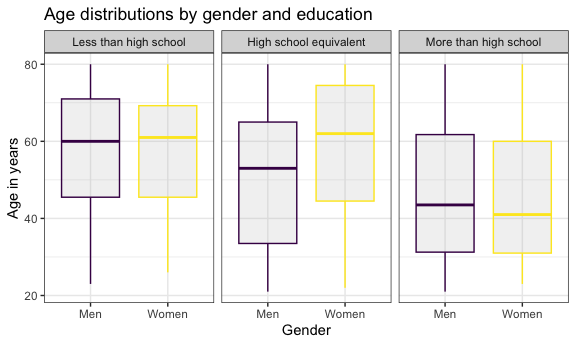
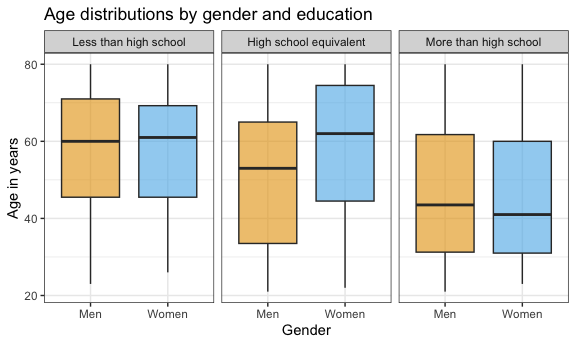
I calculated total activity by participant and plotted it by age, gender, and education.

Changed region(s): [[0.4062, 0.2029, 0.6562, 0.8116], [0.7188, 0.3768, 0.9688, 0.7536], [0.0938, 0.2029, 0.3438, 0.7826]]

diff --git a/hw3_ak4598.md b/hw3_ak4598.md
@@ -253,6 +253,8 @@ This line graph (or spaghetti plot) uses the `brfss_excellent` dataset
 to display the average data value over time by state.
 
 ``` r
+scale_colour_discrete = scale_colour_viridis_d
+
 ggplot(brfss_excellent, aes(x = year, y = data_value_avg, color = locationabbr)) + 
   geom_line() + 
   labs(
@@ -263,7 +265,7 @@ ggplot(brfss_excellent, aes(x = year, y = data_value_avg, color = locationabbr))
   theme(legend.position = "none")
 ```
 
-<img src="hw3_ak4598_files/figure-gfm/plot_spaghetti, -1.png" width="90%" />
+<img src="hw3_ak4598_files/figure-gfm/plot_spaghetti-1.png" width="90%" />
 
 ## Problem 2.3
 
@@ -283,7 +285,7 @@ response ratings, from “poor” to “excellent,” for the years 2006 and
 
 ``` r
 ggplot(brfss_ny, aes(x = response, y = data_value)) + 
-  geom_boxplot() + 
+  geom_boxplot(fill = "#56B4E9", alpha = 0.6) + 
   facet_grid(~year) + 
   labs(title = "Distributions by Overall Health Response Ratings, 2006 and 2010",
        x = "Rating",
@@ -368,8 +370,9 @@ high school equivalent category, there are more men than women.
 ### These boxplots show the age distributions for men and women in each education category.
 
 ``` r
-ggplot(covar, aes(x = sex, y = age, color = sex)) + 
-  geom_boxplot(fill = "grey", alpha = 0.2) + 
+ggplot(covar, aes(x = sex, y = age, fill = sex)) + 
+  geom_boxplot(alpha = 0.6)  + 
+  scale_fill_manual(values=c("#E69F00", "#56B4E9")) + 
   facet_grid(~education) + 
   theme(legend.position = "none") + 
   labs(
@@ -391,11 +394,41 @@ compared to a median of about 53 years old.
 
 ## Problem 3.3
 
-Using your tidied dataset, aggregate across minutes to create a total
-activity variable for each participant. Plot these total activities
-(y-axis) against age (x-axis); your plot should compare men to women and
-have separate panels for each education level. Include a trend line or a
-smooth to illustrate differences. Comment on your plot.
+### Create the dataset
+
+The dataset `accel_total` includes the total activity experienced by
+participant.
+
+``` r
+accel_total <- accel_long %>%
+  group_by(seqn, age, sex, education) %>%
+  summarise(total_activity = sum(mims))
+```
+
+    ## `summarise()` has grouped output by 'seqn', 'age', 'sex'. You can override
+    ## using the `.groups` argument.
+
+### Create the plot
+
+Using the dataset `accel_total`, this plot shows the total activity by
+participant in relation to age in years. The relationships are broken
+down by gender and education level.
+
+``` r
+ggplot(accel_total, aes(x = age, y = total_activity, color = sex)) + 
+  geom_line(size = .5, alpha = .6) + 
+  geom_smooth(se = FALSE, alpha = 1, aes(color = sex)) +  
+  scale_color_manual(values=c("#E69F00", "#56B4E9")) + 
+  facet_grid(~education) + 
+  labs(
+    title = "Total activity in relation to age, by gender and education level",
+    x = "Age in years",
+    y = "Total activity",
+    color = "Gender"
+  )
+```
+
+<img src="hw3_ak4598_files/figure-gfm/total_activity-1.png" width="90%" />
 
 ## Problem 3.4
 
